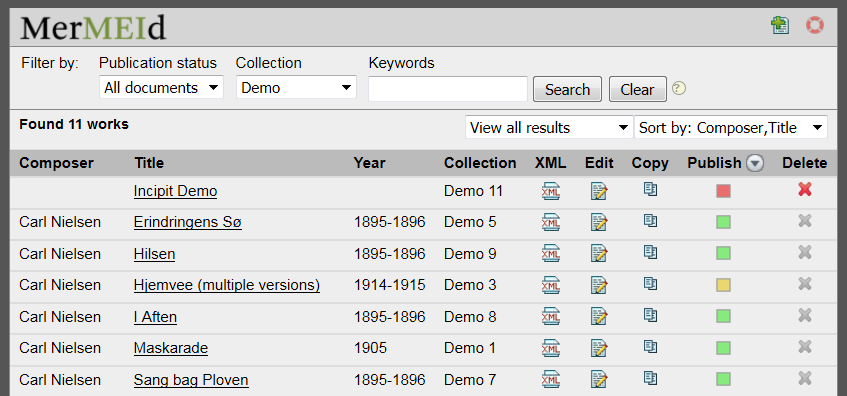
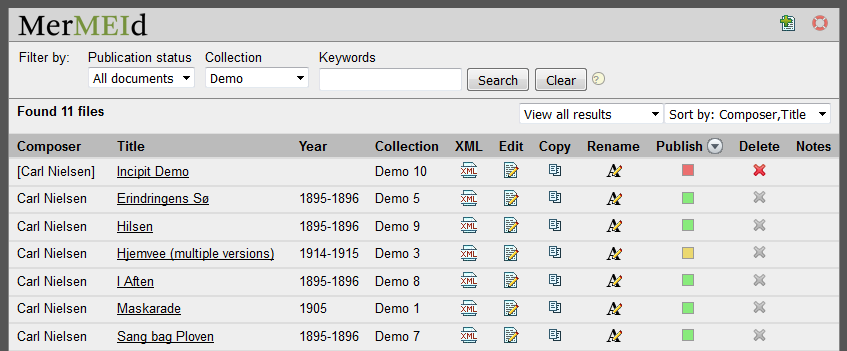
update documentation

diff --git a/trunk/mermeid/manual/basics.html b/trunk/mermeid/manual/basics.html
@@ -22,22 +22,22 @@
       <p>MerMEId (Metadata Editor and Repository for MEI data) is a
         tool for editing, (pre-)viewing and handling of music metadata based on
         <a href="http://www.music-encoding.org" target="_blank" title="Music Encoding Initiative">MEI</a>. </p>
-      <p>It consists of three main components: the MEI file browser,
+      <p>The user interface has three main components: the MEI file browser,
         the metadata editing tool, and the HTML preview. </p>
-      <h3><a name="File" id="File">File list</a></h3>
+      <h3><a name="File" id="File">Document list</a></h3>
       <p>The usual way to start working with MerMEId would be to open
-        the file list, usually located at <a href="/storage/list_files.xq" target="_blank"
-          title="Go to the file list on this server">http://[your hostname
+        the document list, usually located at <a href="/storage/list_files.xq" target="_blank"
+          title="Go to the document list on this server">http://[your hostname
         here]/storage/list_files.xq</a>. You should then see a list
-        of existing files in your collection (if any):</p>
+        of existing documents in your collection (if any):</p>
       <p><img alt="" src="../images/manual/list_files.png" class="illustration" border="0"/></p>
-      <p><strong>Creating a new file: </strong>To create a new file, click the add
+      <p><strong>Creating a new document: </strong>To create a new document, click the add
         button <img alt="New file" src="../images/new.gif" height="16" width="16"/> located in the upper right corner.  
-        This will open a new file in the metadata editor.</p>
-      <p><strong>Listing existing files: </strong>Near the top of the files list page, 
-        a number of controls allow you to you choose which files to list.
-        Use the first select box if you want to see only unpublished, modified or published files. 
-        The second select box lets you filter files by collection, 
+        This will open a new document in the metadata editor.</p>
+      <p><strong>Listing existing documents: </strong>Near the top of the documents list page, 
+        a number of controls allow you to you choose which documents to list.
+        Use the first select box if you want to see only unpublished, modified or published documents. 
+        The second select box lets you filter documents by collection, 
         provided you have specified file collection information in your files. 
         You may also narrow the results using the keywords search.</p> 
       <p>Navigate through the result
@@ -48,31 +48,43 @@
           Click the title of any file to see its metadata displayed as formatted
           HTML.</li>
         <li><strong>XML source</strong>: Click the XML view
-          icon <img alt="XML" src="../images/xml.gif" height="16" width="16"/> to see the file's plain XML
+          icon <img alt="XML" src="../images/xml.gif" height="16" width="16"/> to see the document's plain XML
           data</li>
         <li><strong>Edit file</strong>: Click the edit icon
-          <img alt="Edit" src="../images/edit.gif" height="16" width="16"/> to open the file in the
+          <img alt="Edit" src="../images/edit.gif" height="16" width="16"/> to open the document in the
           metadata editor</li>
-        <li><strong>Publish file(s)</strong>: The color of the checkboxes indicates whether the file is <br/>
+        <li><strong>Copy file</strong>: Click the copy icon
+          <img alt="Copy" src="../images/copy.gif"/> to make a copy of the document. 
+          The copied resource will have '(copy)' added to its title to distinguish it from the original.</li>
+        <li><strong>Rename file</strong>: Click the rename icon
+          <img alt="Rename" src="../images/rename.png" height="16" width="16"/> to rename a document.<br/>
+          Please note that MerMEId does not update any references in other documents pointing to the renamed
+          one; in other words, links between documents are likely to be broken when renaming resources.<br/>
+          Only unpublished documents can be renamed to avoid orphaned (unreachable) documents in the
+          folder containing published documents. To rename a published document, unpublish it, rename, and
+          re-publish it. 
+        </li>
+        <li><strong>Publish file(s)</strong>: The color of the checkboxes indicates whether the document is <br/>
           <img alt="Green" style="vertical-align:bottom;" title="published" 
             src="../images/checkbox_green.png" height="16" width="16"/> published and up to date, has been <br/>
           <img alt="Yellow" style="vertical-align:bottom;" title="modified" 
             src="../images/checkbox_yellow.png" height="16" width="16"/> modified since last publication, or is <br/>
           <img alt="Red" style="vertical-align:bottom;" title="unpublished" 
             src="../images/checkbox_red.png" height="16" width="16"/> unpublished.<br/>
-          To publish or unpublish files, check the appropriate checkboxes and select the desired action from the 
+          To publish or unpublish documents, check the appropriate checkboxes and select the desired action from the 
           publish menu activated by moving the cursor over the publish menu button
           <img alt="Menu" src="../images/menu.gif" height="16" width="16" style="vertical-align:bottom;"/>.<br/>
           <strong>Publishing</strong> in this context simply means that MerMEId copies the file to a separate 
-          <a href="/storage/public/" target="_blank" title="Click to see the contents of your 'public' eXist collection">folder named 'public'</a> in your eXist database.
-            How files placed in the public folder are further processed or made available to others is outside the scope
+          <a href="/storage/public/" target="_blank" title="Click to see the contents of your 'public' eXist collection">folder 
+            named 'public'</a> in your eXist database.
+            How documents placed in the public folder are further processed or made available to others is outside the scope
             of MerMEId and entirely depends on what your system is set up to do with them.<br/>
-          <strong>Unpublishing</strong> means that MerMEId deletes the copy of the file from the public folder.
+          <strong>Unpublishing</strong> means that MerMEId deletes the copy of the document from the public folder.
         </li>
         <li><strong>Delete file</strong>: Clicking the
           delete icon <img alt="Delete" src="../images/remove.gif" height="12" width="12"/> will display a warning that
-          you are about to delete the selected file. Click 'OK' to delete, otherwise 'Cancel'. <br/>
-          Please note that only unpublished files can be deleted. To delete a previously published file
+          you are about to delete the selected document. Click 'OK' to delete, otherwise 'Cancel'. <br/>
+          Please note that only unpublished documents can be deleted. To delete a previously published document
           you will need to unpublish it first to make sure it is deleted from the public folder as well.           
         </li>
       </ul>
@@ -105,7 +117,7 @@
           </tr>
           <tr>
             <td><img alt="Home" src="../images/home.gif" height="16" width="16"/></td>
-            <td>Close the editor end return to file list</td>
+            <td>Close the editor end return to document list</td>
           </tr>
           <tr>
             <td><img alt="Settings" src="../images/settings.png" height="16" width="16"/></td>
@@ -193,6 +205,6 @@
         are displayed (i.e. the colophon).</p>
     </div>
     <p class="footer"><a href="http://www.kb.dk/dcm" title="DCM"><img style="border: 0px none ; vertical-align: middle;" alt="DCM Logo" src="../images/dcm_logo_small_white.png"/></a>
-      2016 Danish Centre for Music Editing | The Royal Library,
-      Copenhagen | <a name="www.kb.dk" id="www.kb.dk" href="http://www.kb.dk/dcm">www.kb.dk/dcm</a></p>
+      2016 Danish Centre for Music Editing | Royal Danish Library,
+      Copenhagen | <a name="www.kb.dk" id="www.kb.dk" href="http://www.kb.dk/en/nb/dcm">www.kb.dk/en/nb/dcm</a></p>
   </body></html>
